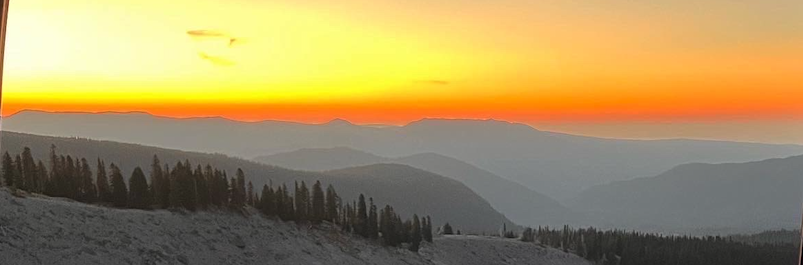
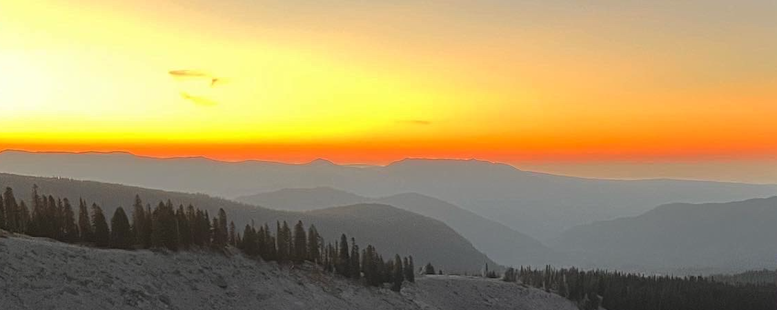
add header image

diff --git a/index.html b/index.html
@@ -7,7 +7,7 @@
 </head>
 <body>
   
-    <div class="jumbotron">
+    <div class="jumbotron mt-3">
       
         <!-- <img class="bg-img" src="images/header.png" alt="Timberline View"> -->
         <h1 class="text-center">~LUKE CALLAHAN~</h1>

diff --git a/css/styles.css b/css/styles.css
@@ -1,5 +1,6 @@
 .jumbotron {
-  background-image: url('/images/header.png');
+  background-image: url('../images/header.png');
+  
   background-size: cover;
   height: 100%
 }
